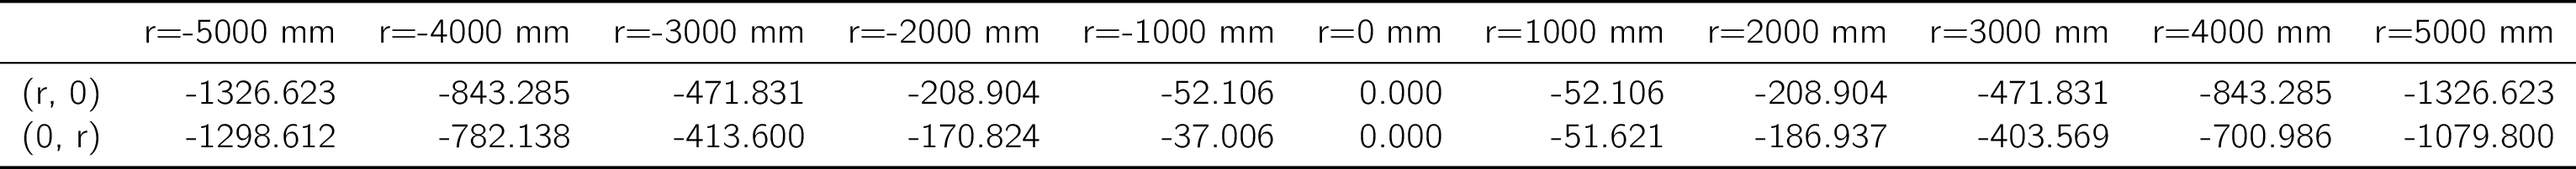
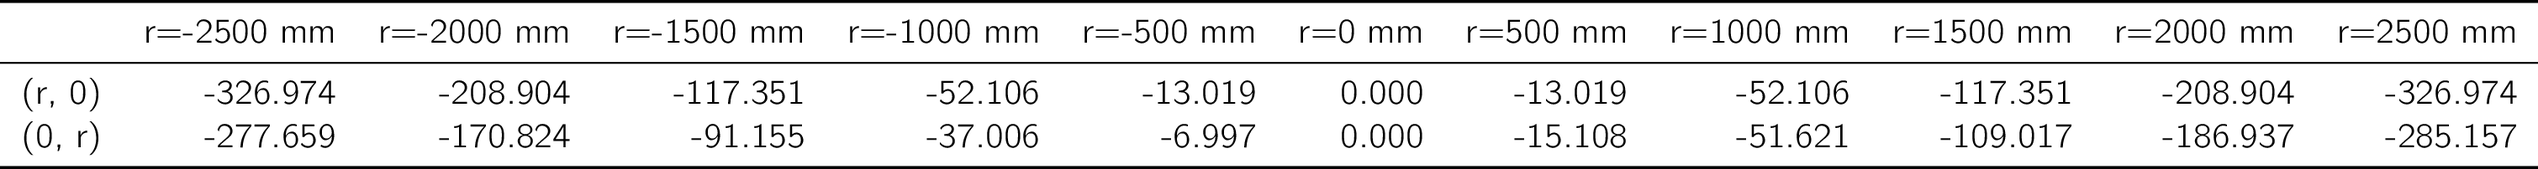
updated tables

diff --git a/design_analysis/TMP_Mech_var8A_20210329/CAD/sag_tables/tert_surface_values_table.tex b/design_analysis/TMP_Mech_var8A_20210329/CAD/sag_tables/tert_surface_values_table.tex
@@ -3,10 +3,10 @@
 \usepackage{cmbright}
 \begin{document}\begin{tabular}{lrrrrrrrrrrr}
 \toprule
-{} &  r=-5000 mm &  r=-4000 mm &  r=-3000 mm &  r=-2000 mm &  r=-1000 mm &  r=0 mm &  r=1000 mm &  r=2000 mm &  r=3000 mm &  r=4000 mm &  r=5000 mm \\
+{} &  r=-2500 mm &  r=-2000 mm &  r=-1500 mm &  r=-1000 mm &  r=-500 mm &  r=0 mm &  r=500 mm &  r=1000 mm &  r=1500 mm &  r=2000 mm &  r=2500 mm \\
 \midrule
-(r, 0) &   -1326.623 &    -843.285 &    -471.831 &    -208.904 &     -52.106 &   0.000 &    -52.106 &   -208.904 &   -471.831 &   -843.285 &  -1326.623 \\
-(0, r) &   -1298.612 &    -782.138 &    -413.600 &    -170.824 &     -37.006 &   0.000 &    -51.621 &   -186.937 &   -403.569 &   -700.986 &  -1079.800 \\
+(r, 0) &    -326.974 &    -208.904 &    -117.351 &     -52.106 &    -13.019 &   0.000 &   -13.019 &    -52.106 &   -117.351 &   -208.904 &   -326.974 \\
+(0, r) &    -277.659 &    -170.824 &     -91.155 &     -37.006 &     -6.997 &   0.000 &   -15.108 &    -51.621 &   -109.017 &   -186.937 &   -285.157 \\
 \bottomrule
 \end{tabular}
 
